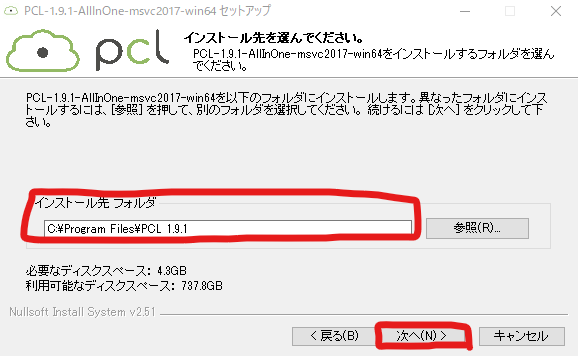
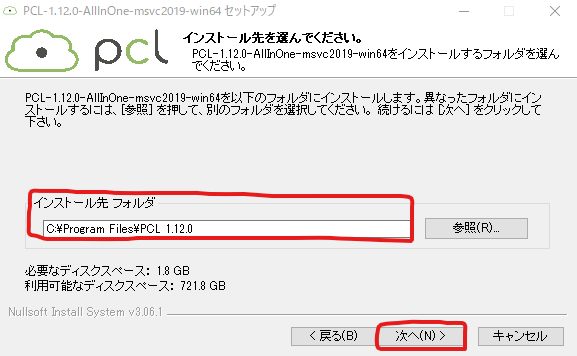
画像を同期

diff --git a/2021_0719.md b/2021_0719.md
@@ -5,7 +5,7 @@ theme: template
 
 # Blender をコンパイルする
 
-## 目的
+## 1. 目的
 
 これまで開発環境としてきた ノート PC から デスクトップ PC に環境を変更するにあたって `import bpy` を実行しようとするとエラーが発生し、`pip install bpy` でも目的のパッケージを見つけられなかったため検索をかけたところ、以下のことがわかった。
 
@@ -20,11 +20,11 @@ theme: template
 
 ---
 
-## ビルド環境を整える
+## 2. ビルド環境を整える
 
 まず、ビルドするための環境を整える。その際、[[Blender] ソースコードから Blender 本体をビルドする](https://qiita.com/nutti/items/2a7d31e224b28142b3d6) を参考にした。
 
-### Visual Studio Community 2019 のインストール
+### 2.1. Visual Studio Community 2019 のインストール
 
 > Blender のコアの部分は C 言語と C++混在で書かれているため、Blender をビルドするためには、Windows 上でビルドするための環境が必要です。
 
@@ -38,7 +38,7 @@ theme: template
 
 ---
 
-### SVN のインストール
+### 2.2. SVN のインストール
 
 > Blender のビルドには、コンパイル済みのライブラリが必要になります。Git はバイナリのバージョン管理には不向きであるため、コンパイル済みのライブラリは SVN で管理されています。
 
@@ -65,7 +65,7 @@ $ svn
 
 ---
 
-### ソースコード・バイナリの取得
+### 2.3. ソースコード・バイナリの取得
 
 ```cmd
 $ mkdir blender_dev
@@ -79,7 +79,7 @@ $ cd ..
 $ svn checkout https://svn.blender.org/svnroot/bf-blender/trunk/lib/win64_vc12 lib/win64_vc12
 ```
 
-### プロジェクトファイルの作成
+### 2.4. プロジェクトファイルの作成
 
 ビルド後の Blender のバイナリを置くためのディレクトリを作成する。
 
@@ -106,7 +106,7 @@ CMake を起動する。**ソースが置かれたディレクトリ** と **ビ
 
 ---
 
-### エラー発生
+### 2.5. エラー発生
 
 cmake を実行すると、次のようなエラーが発生した。
 
@@ -120,7 +120,7 @@ Call Stack (most recent call first):
 
 このエラーについては、以下のサイトに解決方法が記載されていた。
 
-### make をインストールする
+#### 2.5.1. make をインストールする
 
 まず、次のサイトにしたがって、**make** をインストールする。
 
@@ -181,7 +181,7 @@ Call Stack (most recent call first):
 $ C:\Program Files (x86)\GnuWin32\bin
 ```
 
-### make update
+#### 2.5.2. make update
 
 先ほどのエラーは、`make update` ができていないために発生しているようだった。そこで、以下のコマンドで blender を make update する
 
@@ -190,6 +190,64 @@ $ cd blender_dev
 $ cd blender
 $ make update
 ```
+
+#### 2.5.3. エラー対処完了
+
+**make update** を実行することで、CMake の **Configure** を完了できた。成功すると、以下のように、**Configuring done** と表示される。
+
+<div align="center">
+<img src="https://raw.githubusercontent.com/rurusasu/Diary/master/%E7%94%BB%E5%83%8F/2021_0719/cmake3.png" width=800>
+</div>
+
+これで、一応ビルドが完了したことになる。
+
+---
+
+### 2.6. プロジェクトファイル作成続き
+
+**Configuring done** と表示された後に、** Generate** をクリックする。しばらく時間が経った後、以下のように **Generating done** という文字が表示されるとプロジェクトファイルの作成に成功している。
+
+<div align="center">
+<img src="https://raw.githubusercontent.com/rurusasu/Diary/master/%E7%94%BB%E5%83%8F/2021_0719/cmake4.png" width=800>
+</div>
+
+### 2.7. Blender をビルドする
+
+CMake でビルドの設定を行った際に指定した、ビルド時のデータが置かれるディレクトリに移動する。プロジェクトファイルの作成に成功している場合、**Blender.sln** ファイルがある。
+
+<div align="center">
+<img src="https://raw.githubusercontent.com/rurusasu/Diary/master/%E7%94%BB%E5%83%8F/2021_0719/blender_build.png" width=400>
+</div>
+
+---
+
+このファイルを開く前に、Visual Studio Installer を開き、以下のパッケージを追加しておく
+
+<div align="center">
+<img src="https://raw.githubusercontent.com/rurusasu/Diary/master/%E7%94%BB%E5%83%8F/2021_0719/blender_build_2.png" width=400>
+</div>
+
+パッケージ追加後、**Blender.sln** ファイルを開き、**ローカル Windows デバッカー** を実行する。
+
+<div align="center">
+<img src="https://raw.githubusercontent.com/rurusasu/Diary/master/%E7%94%BB%E5%83%8F/2021_0719/blender_build_3.png" width=400>
+</div>
+
+実行後、デバッガーのエラーが表示されるが、**ビルド: 143 正常終了、0 失敗、0 更新不要、0 スキップ** が表示されれば成功。なお、ビルド数は Blender のバージョンによって異なるので、**0 失敗** となっていることが重要。
+
+<div align="center">
+<img src="https://raw.githubusercontent.com/rurusasu/Diary/master/%E7%94%BB%E5%83%8F/2021_0719/blender_build_4.png" width=800>
+</div>
+
+---
+
+次に、ソリューションエクスプローラーの検索欄に **INSTALL** と入力し、表示された **INSTALL** されたものを右クリックして、**リビルド** を選択する。
+
+<div align="center">
+<img src="https://raw.githubusercontent.com/rurusasu/Diary/master/%E7%94%BB%E5%83%8F/2021_0719/blender_build_5.png" width=800>
+</div>
+
+---
 
 ---
 
@@ -260,14 +318,84 @@ ERROR: Could not find a version that satisfies the requirement yaml
 
 必要なパッケージをすべてインストールしたら、次に python-pcl をダウンロードしていく。
 
-> ポイントクラウドライブラリ（またはPCL）は、2D / 3D用の大規模なオープンプロジェクトです。
+> ポイントクラウドライブラリ（または PCL）は、2D / 3D 用の大規模なオープンプロジェクトです。
 
 参考: [ PointCloudLibrary](https://pointclouds.org/)
 
 1. [python-pcl](https://github.com/strawlab/python-pcl) の windows インストールから、以下のファイルをダウンロードする。
 
 <div align="center">
-<img src="https://raw.githubusercontent.com/rurusasu/Diary/master/%E7%94%BB%E5%83%8F/2021_0719/make_install_7.png" width=300>
+<img src="https://raw.githubusercontent.com/rurusasu/Diary/master/%E7%94%BB%E5%83%8F/2021_0719/pcl_install_1.png" width=300>
 </div>
 
-1.
+2. ダウンロードしたファイルを実行する。
+
+<div align="center">
+<img src="https://raw.githubusercontent.com/rurusasu/Diary/master/%E7%94%BB%E5%83%8F/2021_0719/pcl_install_2.png" width=300>
+</div>
+
+---
+
+3. 同意するを選択する。
+
+<div align="center">
+<img src="https://raw.githubusercontent.com/rurusasu/Diary/master/%E7%94%BB%E5%83%8F/2021_0719/pcl_install_3.png" width=300>
+</div>
+
+4. Add PCL to the system PATH for all users を選択し、次へ
+
+<div align="center">
+<img src="https://raw.githubusercontent.com/rurusasu/Diary/master/%E7%94%BB%E5%83%8F/2021_0719/pcl_install_4.png" width=300>
+</div>
+
+---
+
+5. インストール先を選択し、次へ
+
+<div align="center">
+<img src="https://raw.githubusercontent.com/rurusasu/Diary/master/%E7%94%BB%E5%83%8F/2021_0719/pcl_install_5.png" width=300>
+</div>
+
+6. ショートカットを作成したいスタートメニュー フォルダを選択する。特に何もせずに次へを選択。
+
+<div align="center">
+<img src="https://raw.githubusercontent.com/rurusasu/Diary/master/%E7%94%BB%E5%83%8F/2021_0719/pcl_install_6.png" width=300>
+</div>
+
+---
+
+7. インストールしたいコンポーネントを選択。今回は特に変更せず、インストールを選択。
+
+<div align="center">
+<img src="https://raw.githubusercontent.com/rurusasu/Diary/master/%E7%94%BB%E5%83%8F/2021_0719/pcl_install_7.png" width=300>
+</div>
+
+8. インストールが完了したら、システム環境変数に **PCL_ROOT** と **OPENNI2_REDIST64** が追加されていることを確認する。
+
+<div align="center">
+<img src="https://raw.githubusercontent.com/rurusasu/Diary/master/%E7%94%BB%E5%83%8F/2021_0719/pcl_install_8.png" width=300>
+</div>
+
+もし、ない場合は
+
+- 変数名: PCL_ROOT
+- 変数値: C:\Program Files\PCL 1.9.1
+
+- 変数名: OPENNI2_REDIST64
+- 変数値: C:\Program Files\OpenNI2\Redist\
+
+で環境変数を追加する。
+
+---
+
+9. さらにシステム環境変数の **Path** に以下の 5 つを追加する。
+
+- %PCL_ROOT%bin
+- %OPENNI2_REDIST64%
+- %PCL_ROOT%\3rdParty\FLANN\bin
+- %PCL_ROOT%\3rdParty\Qhull\bin
+- %PCL_ROOT%\3rdParty\VTK\bin
+
+<div align="center">
+<img src="https://raw.githubusercontent.com/rurusasu/Diary/master/%E7%94%BB%E5%83%8F/2021_0719/pcl_install_9.png" width=300>
+</div>
